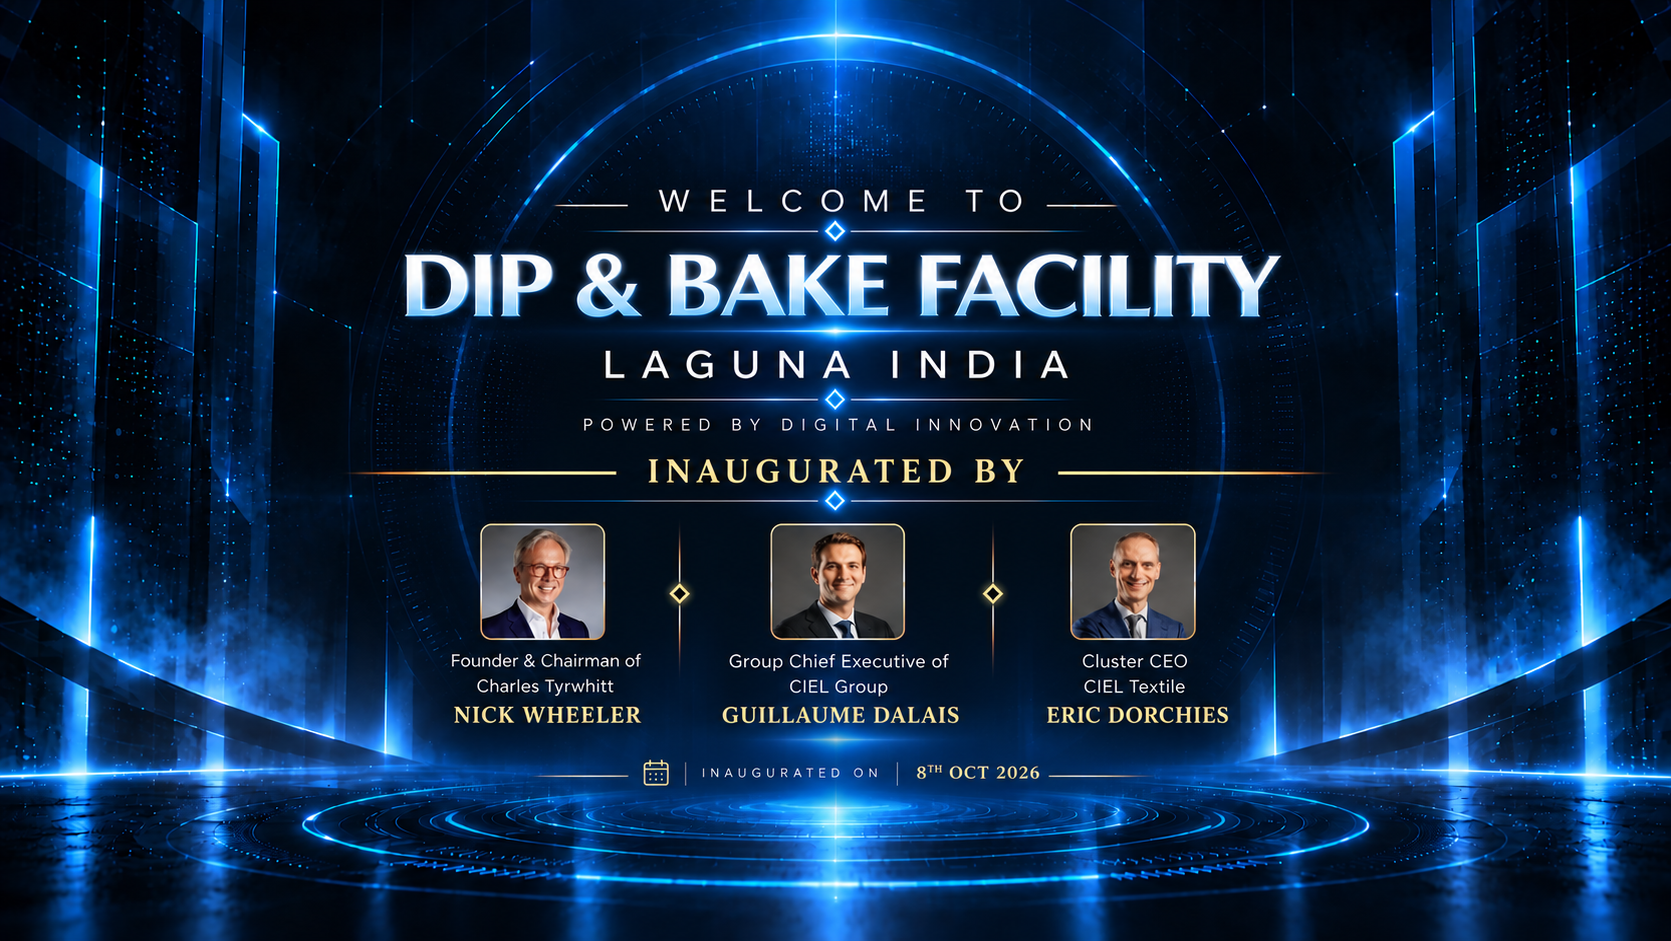
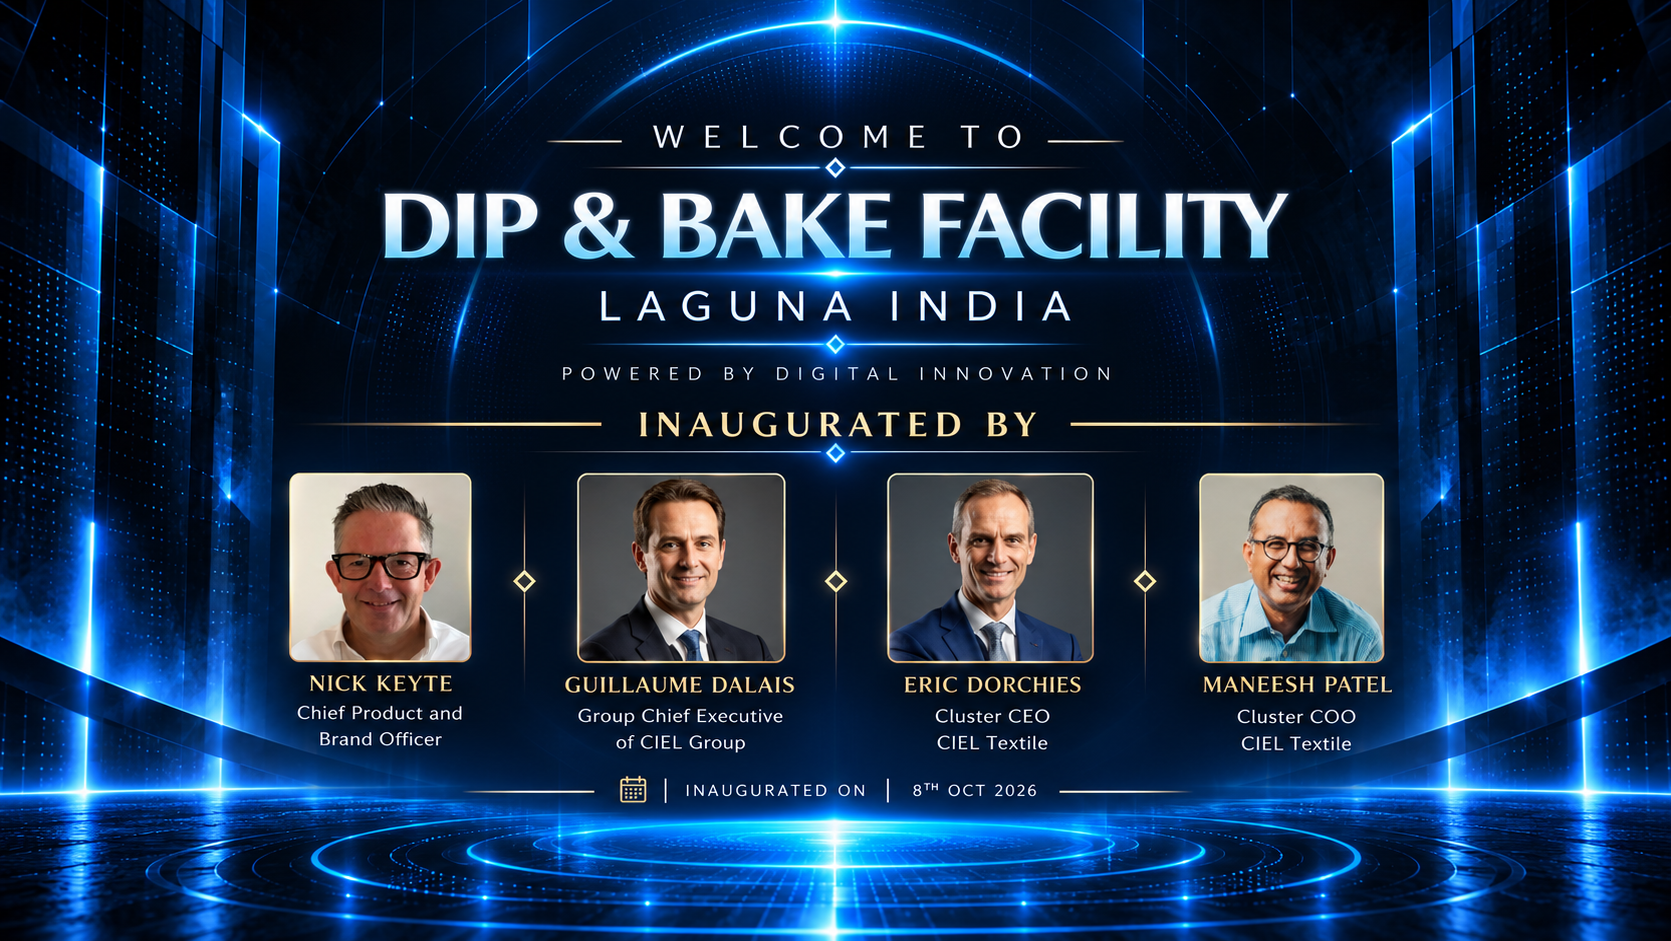
Replace final screen with four-guest gala poster

diff --git a/public/style.css b/public/style.css
@@ -509,7 +509,6 @@ body:after{content:"";position:fixed;inset:0;z-index:0;pointer-events:none;backg
 @keyframes curtain-open-right{0%{transform:translateX(0) scaleX(1);filter:brightness(1)}22%{transform:translateX(4%) scaleX(.98);filter:brightness(1.08)}58%{transform:translateX(48%) scaleX(.86);filter:brightness(.93)}82%{transform:translateX(87%) scaleX(.72);filter:brightness(.82)}100%{transform:translateX(103%) scaleX(.64);filter:brightness(.72)}}
 .final-black-screen{position:fixed;z-index:100;inset:0;display:block;width:100vw;height:100vh;min-height:100vh;padding:0;margin:0;overflow:hidden;background:#000}
 .final-black-screen img{display:block;width:100%;height:100%;object-fit:cover}
-.poster-name-correction{position:absolute;z-index:2;left:32.45%;top:76.05%;width:15.2%;height:4.2%;display:flex;align-items:center;justify-content:center;transform:translate(-50%,-50%);background:linear-gradient(90deg,rgba(4,18,35,.96),#071a31 18%,#071a31 82%,rgba(4,18,35,.96));color:#f1cf75;text-shadow:0 1px 5px rgba(240,185,77,.26);font:700 clamp(13px,1.28vw,24px)/1 Georgia,'Times New Roman',serif;letter-spacing:.025em;white-space:nowrap}
 
 /* Four-guest ceremony layout */
 @media(min-width:801px){.role-grid{grid-template-columns:repeat(5,minmax(155px,210px))}}

diff --git a/public/index.html b/public/index.html
@@ -84,8 +84,7 @@
     </section>
 
     <section id="final-black-screen" class="screen final-black-screen hidden" aria-label="Digital Innovation Inauguration poster">
-      <img src="/digital-innovation-inauguration-poster.png?v=2" alt="Digital Innovation Inauguration — Dip &amp; Bake Facility, Laguna India — 8 October 2026">
-      <span class="poster-name-correction" aria-hidden="true">NICK KEYTE</span>
+      <img src="/digital-innovation-inauguration-poster.png?v=3" alt="Digital Innovation Inauguration — Dip &amp; Bake Facility with Nick Keyte, Guillaume Dalais, Eric Dorchies, and Maneesh Patel — 8 October 2026">
     </section>
 
     <section id="countdown-screen" class="screen overlay hidden">
